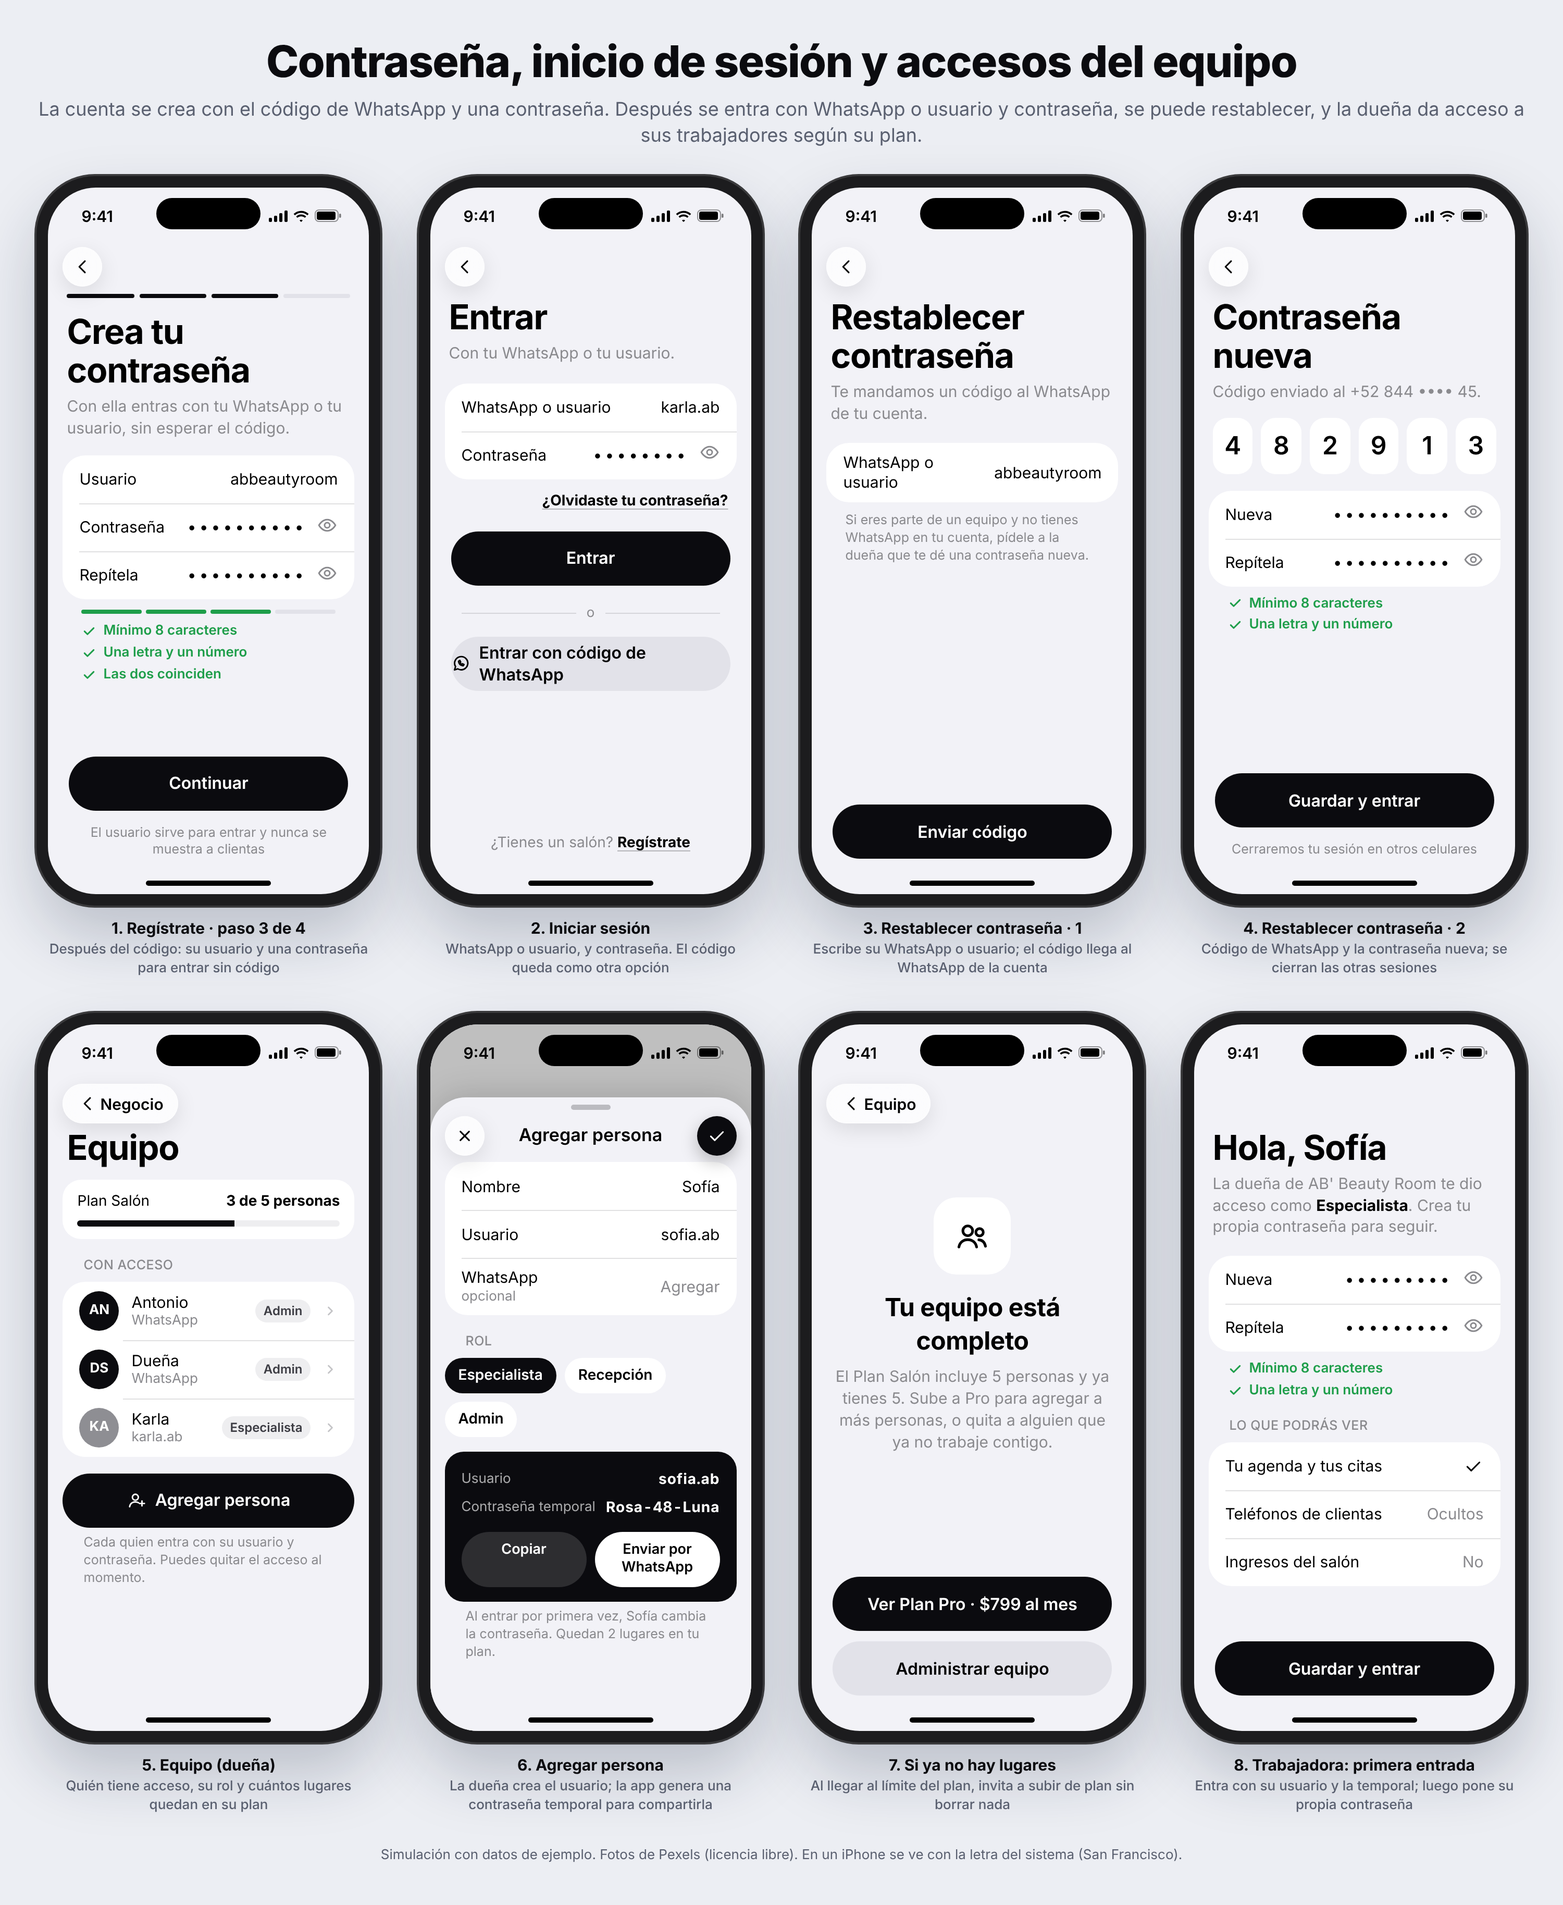
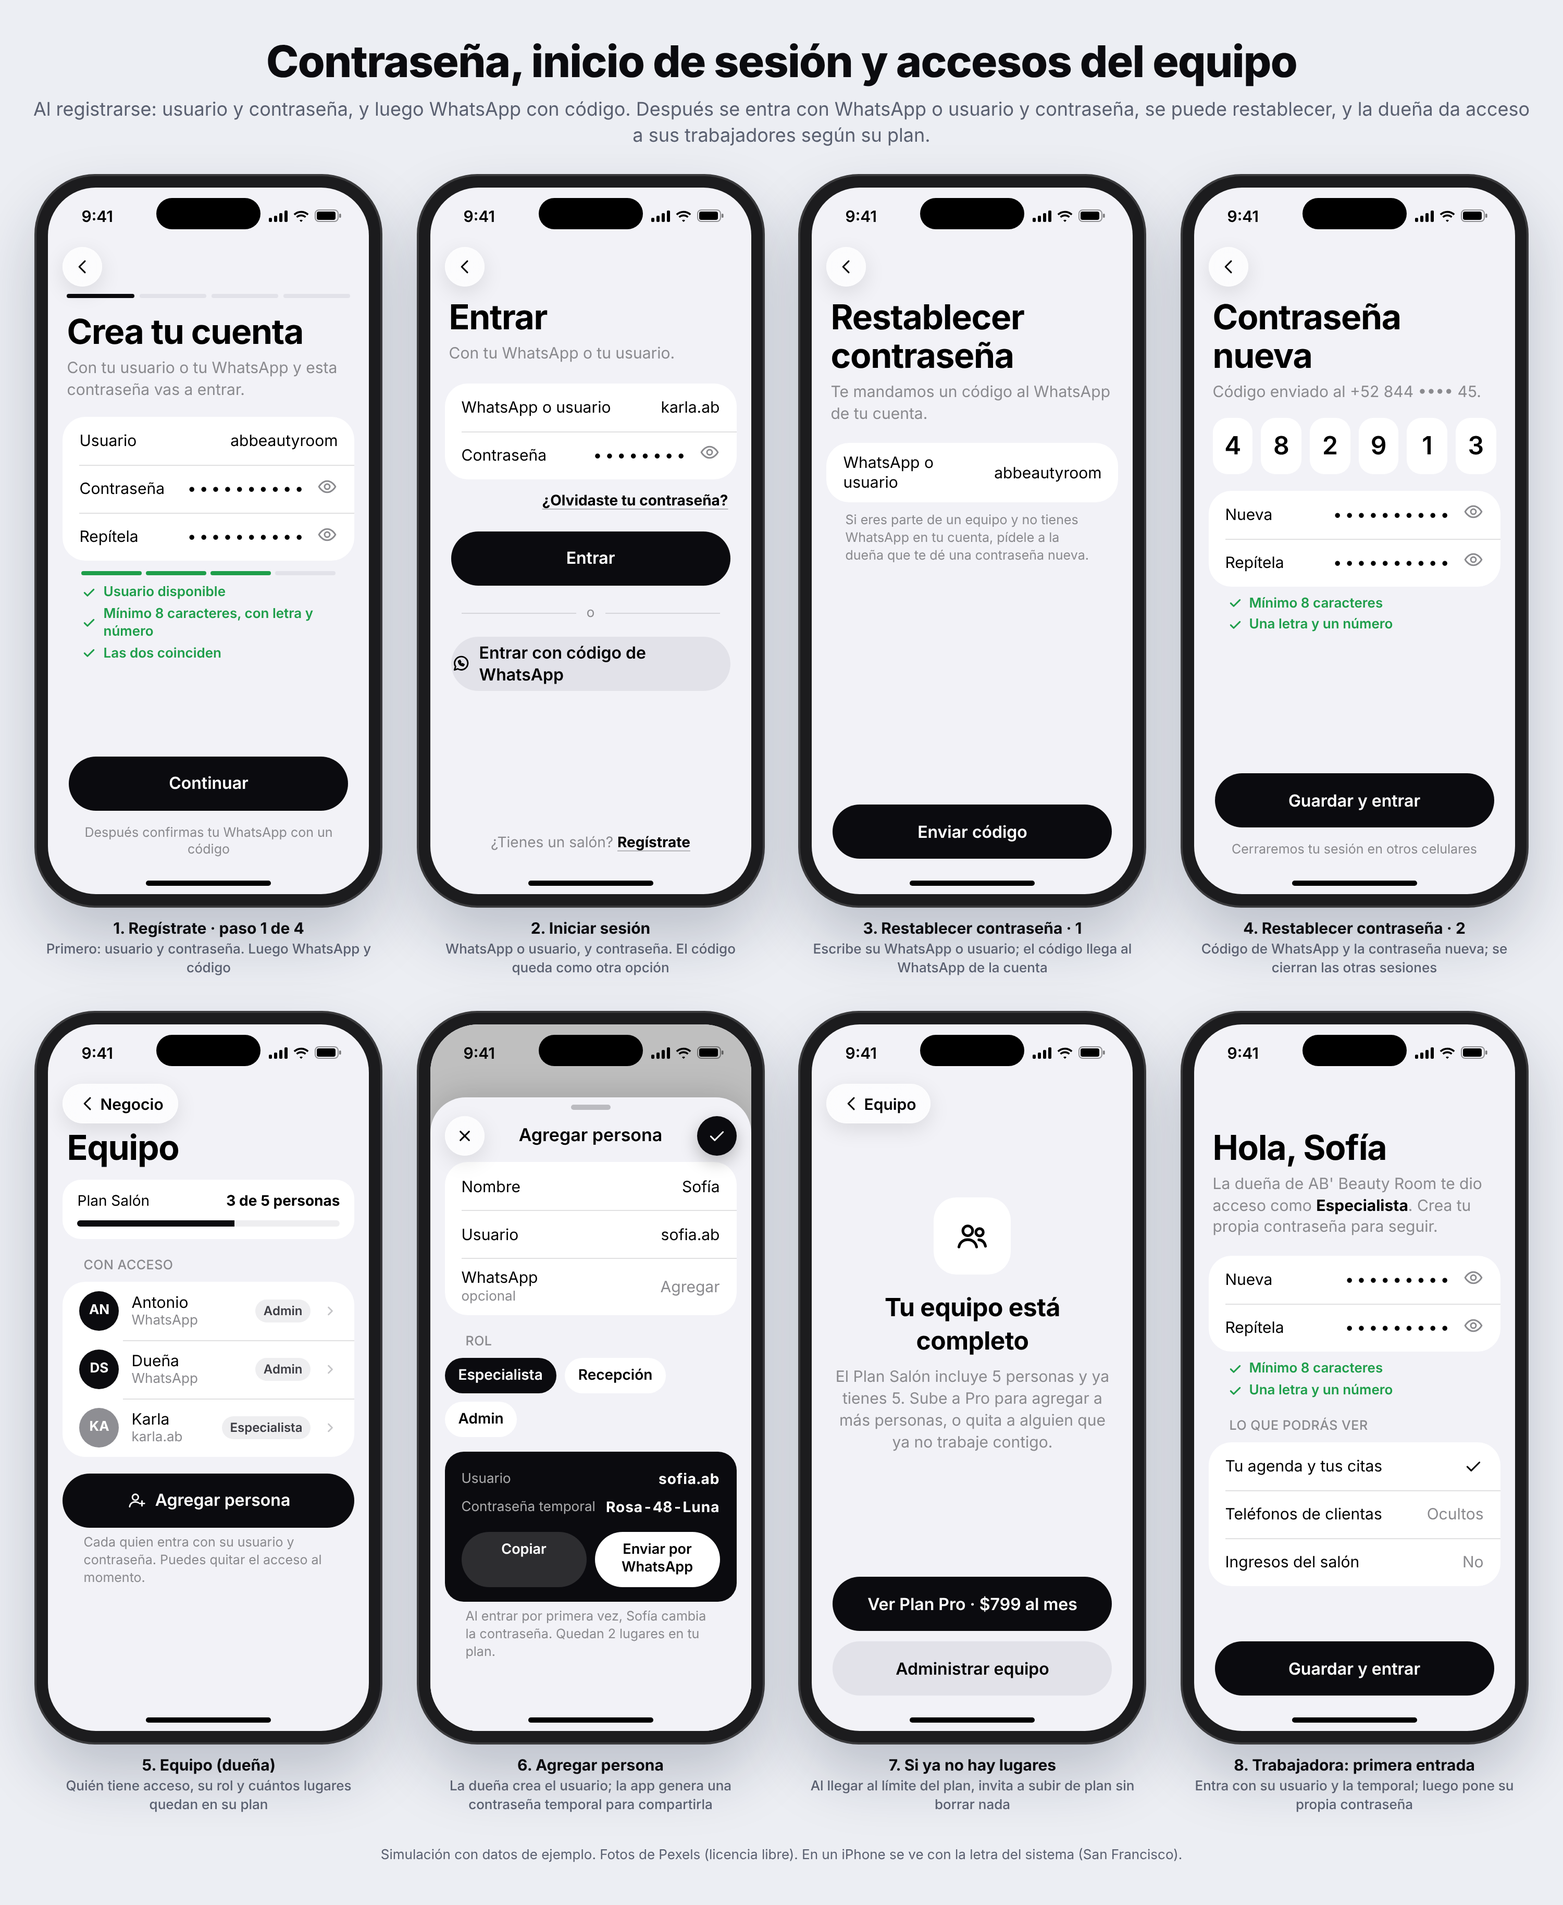
Registro: primero usuario y contraseña, después WhatsApp y código (láminas y prompts)
Claude-Session: https://claude.ai/code/session_01364FYb5aXB2p36M33N5fWn

diff --git a/ritmo/ios/inicio.html b/ritmo/ios/inicio.html
@@ -273,11 +273,19 @@ figcaption small { display: block; margin-top: 3px; color: var(--pageInk2); font
 .check { display: flex; align-items: center; gap: 12px; }
 .check .dot { width: 24px; height: 24px; border-radius: 50%; box-shadow: inset 0 0 0 1.5px #C7C7CC; flex: none; }
 .check .dot.ok { background: #0B0B0F; box-shadow: none; color: #fff; display: grid; place-items: center; } .check .dot.ok .ic { width: 14px; height: 14px; stroke-width: 2.6; }
+.field { display: flex; align-items: center; gap: 10px; }
+.field .l { flex: 1; }
+.field input, .field .val { font: inherit; border: 0; background: none; text-align: right; color: #000; }
+.pw { letter-spacing: 3px; font-weight: 700; }
+.eye { color: var(--ink3); }
+.rules { padding: 8px 32px 0; display: grid; gap: 4px; font-size: 13px; color: var(--ink3); }
+.rules span { display: flex; align-items: center; gap: 6px; } .rules .ok { color: #1E9E4A; } .rules .ic { width: 15px; height: 15px; stroke-width: 2.4; }
+.meter2 { display: flex; gap: 4px; padding: 10px 32px 0; } .meter2 i { flex: 1; height: 4px; border-radius: 2px; background: var(--fill); } .meter2 i.on { background: #1E9E4A; }
 </style>
 
 <header class="head">
   <h1>Primera entrada: publicaciones y «Regístrate»</h1>
-  <p>Quien entra por primera vez ve los trabajos de los negocios registrados y busca lo que le interesa. Abajo solo está Inicio y un botón para salones. De ahí siguen los pasos del registro (el paso 3, la contraseña, está en la lámina de cuentas).</p>
+  <p>Quien entra por primera vez ve los trabajos de los negocios registrados y busca lo que le interesa. Abajo solo está Inicio y un botón para salones. Al tocar «¿Tienes un salón?» sigue el registro: usuario y contraseña, WhatsApp, código y datos del salón.</p>
 </header>
 <div class="wall-grid" id="g"></div>
 <p class="foot">Simulación con datos de ejemplo. Fotos de Pexels (licencia libre). En un iPhone se ve con la letra del sistema (San Francisco).</p>
@@ -347,29 +355,32 @@ figcaption small { display: block; margin-top: 3px; color: var(--pageInk2); font
     <div class="sh">Trabajos de cejas cerca</div>
     <div class="grid3">${[[5177994, 250], [3813896, 350], [3985329, 180], [8554941, 550], [5128220, 300], [5177994, 250], [3813896, 700], [8554941, 550], [3985329, 450]].map(([f, p]) => `<div><img src="${F(f)}" alt=""><span>$${p}</span></div>`).join('')}</div>
   </div>${vbar()}`)]);
-  // 3 · Agendar sin cuenta
-  S.push(['Agenda sin crear cuenta', 'Desde la foto: elige hora y deja su WhatsApp para la confirmación', tel(`<div class="body" style="background:#fff"></div><div class="dim"></div>
-    <div class="sheet" style="top:150px"><div class="grab"></div>
-      <div class="navr"><span class="gbtn gl">${I('x')}</span><b>Agendar</b><span style="width:38px"></span></div>
-      <div class="ig" style="margin-top:6px"><div class="cellr"><img class="thumb" src="${F(5177994)}" alt="" style="width:44px;height:44px"><div class="l"><b>Diseño de cejas</b><small>AB' Beauty Room · 45 min</small></div><span class="price">$250</span></div></div>
-      <div class="sh">Hoy · horas libres</div>
-      <div class="chips2"><span>11:00</span><span class="on">13:30</span><span>15:00</span><span>16:30</span><span>18:00</span></div>
-      <div class="ig" style="margin-top:14px"><div class="cellr"><div class="l">Tu nombre</div><span class="v" style="color:#000">Valeria</span></div><div class="cellr"><div class="l">Tu WhatsApp</div><span class="v" style="color:#000">+52 844 123 4567</span></div></div>
-      <div class="cta2" style="bottom:34px"><div class="bigb p">Pedir cita</div><div class="lk" style="font-size:12.5px">El salón te confirma por WhatsApp</div></div>
-    </div>`)]);
-  // 4 · Paso 1
-  S.push(['Regístrate · paso 1 de 4', 'Al tocar «Regístrate»: solo su número de WhatsApp, sin contraseñas', tel(`<div class="body">
+  // 3 · Paso 1: cuenta
+  P.eye = '<path d="M2.5 12S6 5.5 12 5.5 21.5 12 21.5 12 18 18.5 12 18.5 2.5 12 2.5 12z"/><circle cx="12" cy="12" r="3"/>';
+  const pwRow = (lbl, dots) => `<div class="cellr field"><div class="l">${lbl}</div><span class="val pw">${dots}</span><span class="eye">${I('eye')}</span></div>`;
+  S.push(['Regístrate · paso 1 de 4', 'Al tocar «¿Tienes un salón?»: primero su usuario y contraseña', tel(`<div class="body">
     <div class="navr"><span class="gbtn gl">${I('left')}</span><span></span></div>
     <div class="steps"><i class="on"></i><i></i><i></i><i></i></div>
-    <div class="lt" style="margin-top:10px">Registra tu salón</div>
-    <div class="hint">Escribe tu WhatsApp. Te mandamos un código de 6 dígitos para entrar; no necesitas contraseña.</div>
+    <div class="lt" style="margin-top:10px">Crea tu cuenta</div>
+    <div class="hint">Con tu usuario o tu WhatsApp y esta contraseña vas a entrar.</div>
+    <div class="ig" style="margin-top:16px"><div class="cellr field"><div class="l">Usuario</div><span class="val">abbeautyroom</span></div>${pwRow('Contraseña', '••••••••••')}${pwRow('Repítela', '••••••••••')}</div>
+    <div class="meter2"><i class="on"></i><i class="on"></i><i class="on"></i><i></i></div>
+    <div class="rules"><span class="ok">${I('check')}Usuario disponible</span><span class="ok">${I('check')}Mínimo 8 caracteres, con letra y número</span><span class="ok">${I('check')}Las dos coinciden</span></div>
+    <div class="cta2"><div class="bigb p">Continuar</div><div class="lk">¿Ya tienes cuenta? <b>Entrar</b></div></div>
+  </div>`)]);
+  // 4 · Paso 1
+  S.push(['Regístrate · paso 2 de 4', 'Su WhatsApp, para confirmar que es suyo con un código', tel(`<div class="body">
+    <div class="navr"><span class="gbtn gl">${I('left')}</span><span></span></div>
+    <div class="steps"><i class="on"></i><i class="on"></i><i></i><i></i></div>
+    <div class="lt" style="margin-top:10px">Tu WhatsApp</div>
+    <div class="hint">Te mandamos un código de 6 dígitos para confirmar que es tu número. También podrás entrar con él.</div>
     <div class="telbox"><span class="cc">🇲🇽 +52</span>844 123 45<span class="car"></span></div>
     <div class="cta2" style="bottom:258px"><div class="bigb p">Enviar código por WhatsApp</div></div>
     ${kb()}</div>`)]);
   // 5 · Paso 2
-  S.push(['Regístrate · paso 2 de 4', 'Escribe el código que llegó por WhatsApp', tel(`<div class="body">
+  S.push(['Regístrate · paso 3 de 4', 'Escribe el código que llegó por WhatsApp', tel(`<div class="body">
     <div class="navr"><span class="gbtn gl">${I('left')}</span><span></span></div>
-    <div class="steps"><i class="on"></i><i class="on"></i><i></i><i></i></div>
+    <div class="steps"><i class="on"></i><i class="on"></i><i class="on"></i><i></i></div>
     <div class="lt" style="margin-top:10px">Escribe el código</div>
     <div class="hint">Te llegó por WhatsApp al +52 844 •••• 45. Vence en 10 minutos.</div>
     <div class="code"><span>4</span><span>8</span><span>2</span><span class="cur"></span><span></span><span></span></div>

diff --git a/ritmo/ios/cuentas.html b/ritmo/ios/cuentas.html
@@ -297,7 +297,7 @@ figcaption small { display: block; margin-top: 3px; color: var(--pageInk2); font
 
 <header class="head">
   <h1>Contraseña, inicio de sesión y accesos del equipo</h1>
-  <p>La cuenta se crea con el código de WhatsApp y una contraseña. Después se entra con WhatsApp o usuario y contraseña, se puede restablecer, y la dueña da acceso a sus trabajadores según su plan.</p>
+  <p>Al registrarse: usuario y contraseña, y luego WhatsApp con código. Después se entra con WhatsApp o usuario y contraseña, se puede restablecer, y la dueña da acceso a sus trabajadores según su plan.</p>
 </header>
 <div class="wall-grid" id="g"></div>
 <p class="foot">Simulación con datos de ejemplo. Fotos de Pexels (licencia libre). En un iPhone se ve con la letra del sistema (San Francisco).</p>
@@ -350,15 +350,15 @@ figcaption small { display: block; margin-top: 3px; color: var(--pageInk2); font
   const pwRow = (lbl, dots, eye = 1) => `<div class="cellr field"><div class="l">${lbl}</div><span class="val pw">${dots}</span>${eye ? `<span class="eye">${I('eye')}</span>` : ''}</div>`;
 
   // 1 · Paso 3: contraseña y usuario
-  S.push(['Regístrate · paso 3 de 4', 'Después del código: su usuario y una contraseña para entrar sin código', tel(`<div class="body">
+  S.push(['Regístrate · paso 1 de 4', 'Primero: usuario y contraseña. Luego WhatsApp y código', tel(`<div class="body">
     ${back()}
-    <div class="steps"><i class="on"></i><i class="on"></i><i class="on"></i><i></i></div>
-    <div class="lt" style="margin-top:10px">Crea tu contraseña</div>
-    <div class="hint">Con ella entras con tu WhatsApp o tu usuario, sin esperar el código.</div>
+    <div class="steps"><i class="on"></i><i></i><i></i><i></i></div>
+    <div class="lt" style="margin-top:10px">Crea tu cuenta</div>
+    <div class="hint">Con tu usuario o tu WhatsApp y esta contraseña vas a entrar.</div>
     <div class="ig" style="margin-top:16px"><div class="cellr field"><div class="l">Usuario</div><span class="val">abbeautyroom</span></div>${pwRow('Contraseña', '••••••••••')}${pwRow('Repítela', '••••••••••')}</div>
     <div class="meter2"><i class="on"></i><i class="on"></i><i class="on"></i><i></i></div>
-    <div class="rules"><span class="ok">${I('check')}Mínimo 8 caracteres</span><span class="ok">${I('check')}Una letra y un número</span><span class="ok">${I('check')}Las dos coinciden</span></div>
-    <div class="cta2"><div class="bigb p">Continuar</div><div class="lk" style="font-size:12.5px">El usuario sirve para entrar y nunca se muestra a clientas</div></div>
+    <div class="rules"><span class="ok">${I('check')}Usuario disponible</span><span class="ok">${I('check')}Mínimo 8 caracteres, con letra y número</span><span class="ok">${I('check')}Las dos coinciden</span></div>
+    <div class="cta2"><div class="bigb p">Continuar</div><div class="lk" style="font-size:12.5px">Después confirmas tu WhatsApp con un código</div></div>
   </div>`)]);
   // 2 · Iniciar sesión
   S.push(['Iniciar sesión', 'WhatsApp o usuario, y contraseña. El código queda como otra opción', tel(`<div class="body">

diff --git a/ritmo/docs/PROMPT-CODEX-REGISTRO-BARRA.md b/ritmo/docs/PROMPT-CODEX-REGISTRO-BARRA.md
@@ -33,24 +33,33 @@ botones: lo primero son las publicaciones.
    calificación, distancia y próximo lugar) y abajo la cuadrícula de
    trabajos con su precio. Sin importar acentos, mayúsculas ni plural.
 
-3. AGENDAR SIN CUENTA (pantalla 3): al tocar «Agendar» en una foto, una
-   hoja con el servicio y precio, horas libres de hoy en chips, nombre y
-   WhatsApp, y «Pedir cita». Crea la cita `solicitada`; el salón la
-   confirma por WhatsApp. (Mientras Explorar/Social reales no estén
-   listos, déjalo como en la demostración de Comunidad.)
+3. AGENDAR SIN CUENTA: al tocar «Agendar» en una foto, una hoja con el
+   servicio y precio, horas libres de hoy en chips, nombre y WhatsApp, y
+   «Pedir cita» (modelo: ritmo/social/index.html). Crea la cita
+   `solicitada`; el salón la confirma por WhatsApp. (Mientras
+   Explorar/Social reales no estén listos, déjalo como en la
+   demostración de Comunidad.)
 
-4. REGISTRO EN 3 PASOS (pantallas 4 a 6), con barrita de avance arriba
+4. REGISTRO EN 4 PASOS (pantallas 3 a 6), con barrita de avance arriba
    y botón ‹ para regresar. Usa el registro por WhatsApp que ya
-   publicaste (PR #10); solo cambia la apariencia y el orden:
-   - Paso 1 «Registra tu salón»: +52 fijo, teclado numérico y «Enviar
-     código por WhatsApp».
-   - Paso 2 «Escribe el código»: 6 cuadros, a qué número llegó, vence en
+   publicaste (PR #10) y agrega la contraseña:
+   - Paso 1 «Crea tu cuenta»: usuario, contraseña y repetirla (con ojo,
+     medidor y reglas en vivo: usuario disponible, mínimo 8 caracteres
+     con letra y número, que coincidan). Abajo «¿Ya tienes cuenta?
+     Entrar».
+   - Paso 2 «Tu WhatsApp»: +52 fijo, teclado numérico y «Enviar código
+     por WhatsApp».
+   - Paso 3 «Escribe el código»: 6 cuadros, a qué número llegó, vence en
      10 minutos y «Reenviar en 0:42».
-   - Paso 3 «Crea tu salón»: tu nombre, negocio, colonia o ciudad, tipo
+   - Paso 4 «Crea tu salón»: tu nombre, negocio, colonia o ciudad, tipo
      de negocio en chips (Salón de belleza, Barbería, Uñas, Cejas y
      pestañas, Spa), aviso «30 días gratis, sin tarjeta» y «Crear mi
      salón». Turnstile y el consentimiento siguen igual.
-   - Las invitaciones de equipo saltan el paso 3.
+   - La cuenta se crea SOLO cuando el código se confirma; antes, el
+     usuario queda apartado unos minutos y se libera si no se termina.
+   - Para entrar después: usuario o WhatsApp + contraseña (o código).
+     Detalles en PROMPT-CODEX-CONTRASENA-EQUIPO.md.
+   - Las invitaciones de equipo saltan el paso 4.
 
 5. SALÓN LISTO (pantalla 7): «¡Listo, {nombre}!» y una lista para
    empezar: Crear tu salón (palomeado), Agrega tus servicios y precios,
@@ -82,7 +91,7 @@ botones: lo primero son las publicaciones.
       lado (ritmo/ios/index.html, pantalla 4).
 
 Actualiza primero la vista previa publicada (neutro-ios) y mándame
-capturas a 390 px en White y Dark de las 8 pantallas, del menú del ＋,
+capturas a 390 px en White y Dark de las 8 pantallas, de la hoja de Agendar, del menú del ＋,
 de Nueva cita y de Agenda. Después sigue con la etapa 1 en la app real.
 No despliegues la app real sin mi confirmación.
 ```

diff --git a/ritmo/docs/PROMPT-CODEX-CONTRASENA-EQUIPO.md b/ritmo/docs/PROMPT-CODEX-CONTRASENA-EQUIPO.md
@@ -11,17 +11,24 @@ trabajadoras según su plan.
 MODELO: ritmo/ios/cuentas.html y su captura
 ritmo/imagenes/app-ios-cuentas.png (rama claude/es-posible-esto-tjimmb,
 último commit). El registro completo está en ritmo/ios/inicio.html
-(ahora son 4 pasos).
+(4 pasos: cuenta, WhatsApp, código y salón).
 
-1. REGISTRO EN 4 PASOS (salones nuevos)
-   1) Tu WhatsApp → 2) Código de 6 dígitos → 3) «Crea tu contraseña»
-   (pantalla 1) → 4) «Crea tu salón».
-   - Paso 3: usuario (sugerido del nombre del negocio, editable),
+1. REGISTRO EN 4 PASOS (salones nuevos), en este orden:
+   1) «Crea tu cuenta»: usuario y contraseña (pantalla 1)
+   2) Tu WhatsApp
+   3) Código de 6 dígitos por WhatsApp
+   4) «Crea tu salón»
+   - Paso 1: usuario (se revisa en vivo que esté disponible),
      contraseña y repetirla, con el ojo para mostrarla, medidor y
      reglas en vivo: mínimo 8 caracteres, una letra y un número, que
      coincidan. Rechaza contraseñas muy comunes.
    - Usuario: único en toda la app, minúsculas, letras, números, punto y
      guion bajo, de 3 a 20 caracteres. Nunca se muestra a clientas.
+   - La cuenta se crea SOLO al confirmar el código (paso 3). Antes, el
+     usuario queda apartado 15 minutos y se libera si no se termina. La
+     contraseña se queda solo en la memoria de la app hasta ese momento
+     y entonces se manda a Supabase Auth; nunca la guardes en otro lado.
+   - Un WhatsApp solo puede tener una cuenta.
 
 2. INICIAR SESIÓN (pantalla 2)
    - Un campo «WhatsApp o usuario» y «Contraseña». Si escriben 10
@@ -91,8 +98,10 @@ MIGRACIÓN
 - Migración aditiva, con respaldo y mi confirmación antes de aplicarla.
 
 PRUEBAS
-- Registro de 4 pasos; entrar con WhatsApp+contraseña, usuario+
-  contraseña y con código; contraseña equivocada 5 veces → bloqueo.
+- Registro de 4 pasos en orden (cuenta, WhatsApp, código, salón); el
+  usuario apartado se libera si no se confirma el código.
+- Entrar con WhatsApp+contraseña, usuario+contraseña y con código;
+  contraseña equivocada 5 veces → bloqueo.
 - Restablecer con WhatsApp; respuesta igual para cuentas que no
   existen; sesiones viejas cerradas.
 - Admin crea trabajadora, ella entra con la temporal, la cambia y solo
